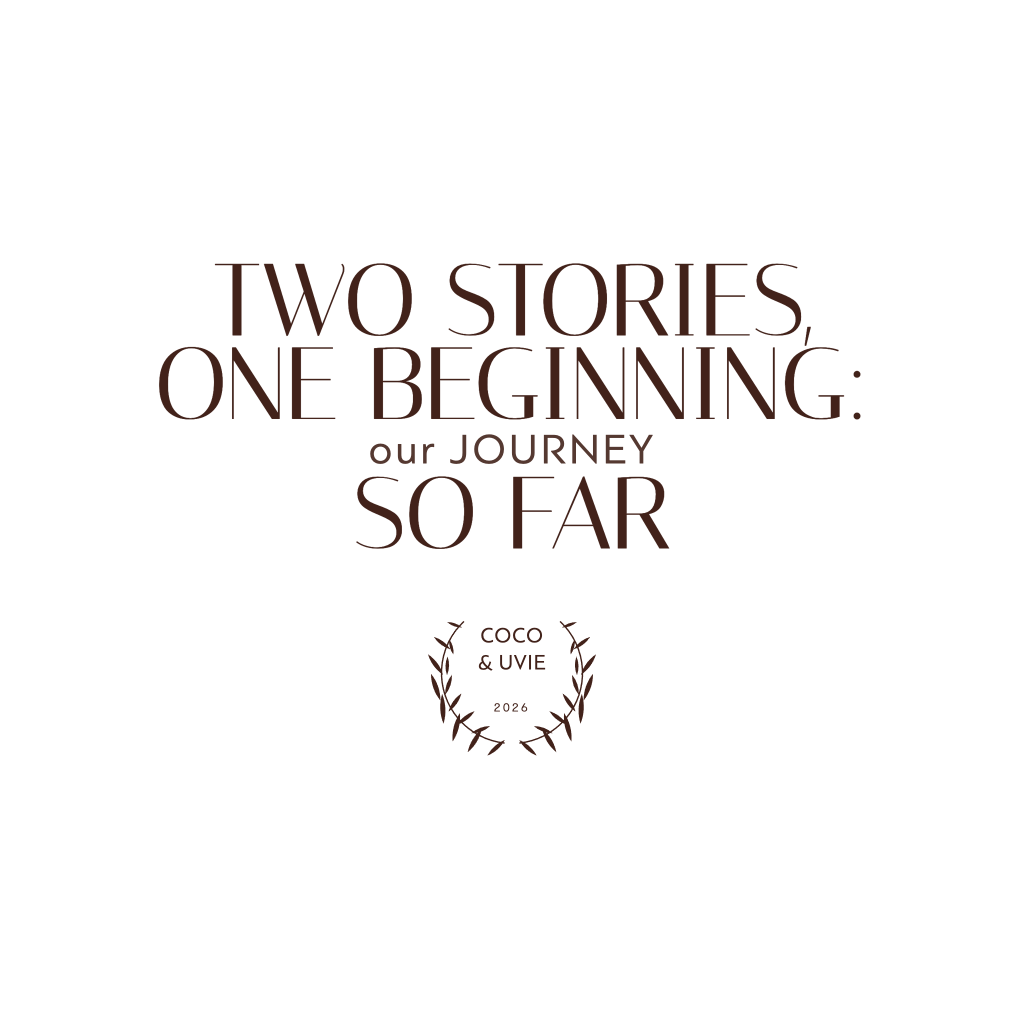
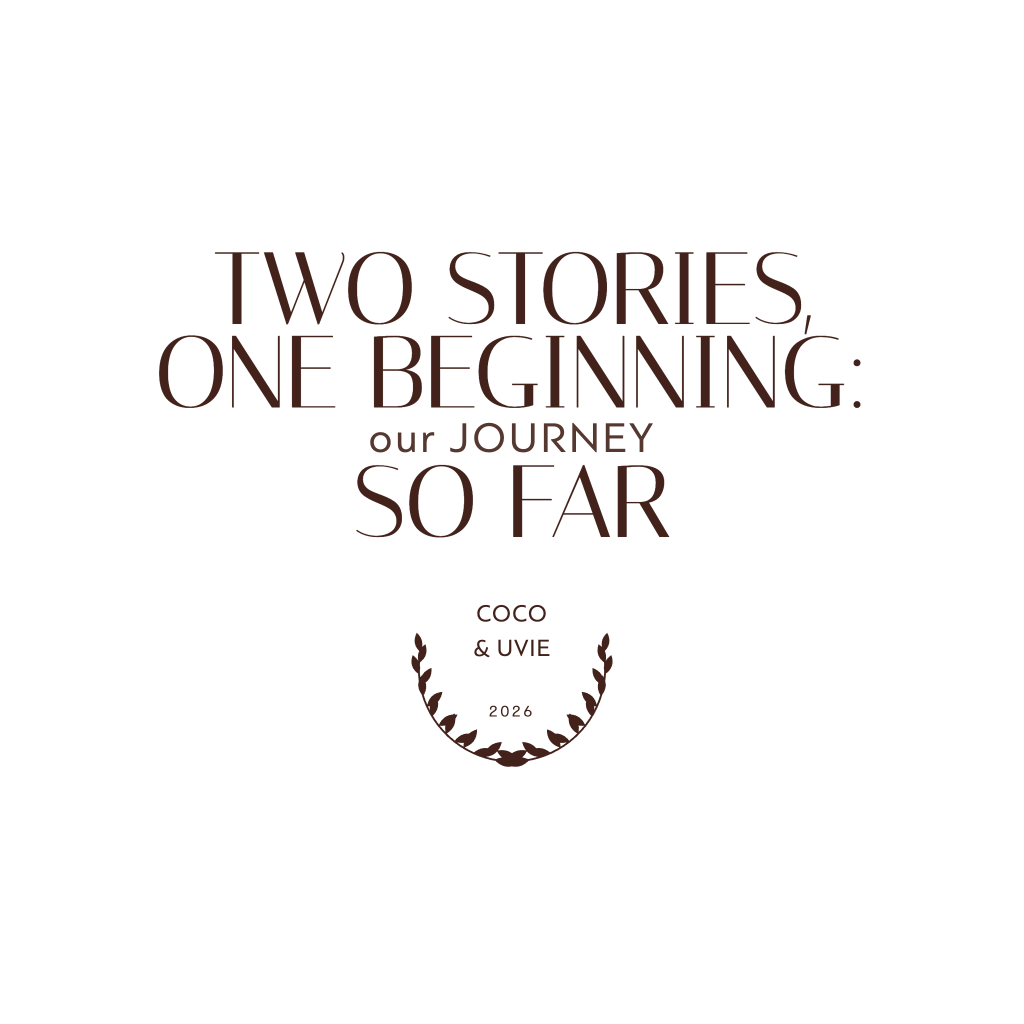
fix(laurel): redrawn from the reference's real proportions — a shallow bowl, not a cog
"The flower you added looks weird and bad compared to reference site's."

Fair. It was proportion, not craft, and the fault was mine: I drew it from the small
screenshot instead of measuring. Pulled their own tagline texture (/images/txt-1.png,
2048², studied in a scratchpad — nothing from it is in this repo) and measured the badge
at full size:

                        reference                  my first pass
  arc from the bottom   ~100° (a shallow bowl)     130° (nearly a closed circle)
  leaf length           ~0.25 x R                  0.43 x R
  leaves per branch     ~15, small and dense       8, big and sparse

Small and dense reads as a laurel. Big and few reads as a cog.

⚠ AND A BÉZIER BUG UNDERNEATH IT. A quadratic peaks at HALF its control offset, so
`Q L/2 -W/2 … Q L/2 W/2` draws a leaf W/2 wide, not W — every leaf was half the width I
was specifying, which is what made the first redraw read as spikes rather than leaves.
The controls sit at ±W now.

⚠ Every leaf sweeps along the branch TOWARD ITS TIP, which is why the ones at the bottom
lie flat instead of hanging down. An intermediate pass mirrored them about the stem and
they came out as little birds.

The names now sit above the branch tips and the year inside the bowl — the same
arrangement the reference uses, and the reason the wreath has to be shallow.

Regenerated with `node scripts/gen-textures.mjs --taglines` + gen-image-variants.mjs.
[…]

diff --git a/AUDIT.md b/AUDIT.md
@@ -1512,4 +1512,5 @@ second time** — the rule was already written in ARCHITECTURE.md.
 | 130 | A hovered card off to the side was still sorted behind the cards it had turned to face you past | 🟠 High | ✅ Fixed 2026-09-18 — user: *"hovering on an off-center card still puts it behind the center ones which is weird."* No pull that is sane in this frame can fix it by geometry — a side card starts 100 units out where the front pair sit at 78, so it would take the 20.9 zoom that had just been rejected twice. **The hovered card is lifted out of the deck instead**: `depthTest = false` and a `renderOrder` above every other card, so it is composited last. ⚠ THE REFERENCE DOES EXACTLY THIS, by another route — `hoverPoster(true)` calls `poster.layers.set(1)` and its loop renders layer 0, calls `clearDepth()`, then renders layer 1. A second pass over a cleared depth buffer and a depth test turned off are the same trick; ours is one pass. ⚠ The flag is paired with `renderOrder` and both are released the moment the card stops being the hovered one (and again in `clearHoverPose`), so nothing can be left drawing over the deck. |
 | 131 | The hover's zoom, third cut | 🟡 Medium | ✅ Fixed 2026-09-18 — user, on #128's 10: *"the zoom is still too exaggerated, I think I much preferred how we had it so closer to ours than reference site's zoom levels. Just a more fluid and a bit more prominent card hover."* `HOVER_PULL` 10 → **5**, `HOVER_RISE` 2 → 1. Measured at 1440×900 a front card sits 77.8 units out: 20.9 brought it to 51.9 (1.7× on screen), 10 to ~62 (1.3×), and 5 lands it at ~68 — about 1.15×, which alongside the lift and the turn reads as a card coming forward rather than one lunging. **The prominence is not the zoom**: what makes it read as picked up is #130, being composited in front of the whole deck. |
 | 132 | The tagline went blank while the deck was scrolling | 🟠 High | ✅ Fixed 2026-09-18 — user: *"as I scroll through the deck the text mesh should change. Right now it's empty while I scroll and only shows when the deck settles on one card."* **Two faults, stacked.** (1) `setTxtChapter` killed the running tween and started a NEW fade to zero from wherever the last one had reached, and the fade back IN only existed inside that tween's `onComplete` — which the next change killed before it could fire. The front card changes every 45° of ring rotation, so a scroll re-targets it several times a second and the opacity was dragged down again and again. One swap now runs at a time and always finishes; a change arriving mid-swap only moves the target, and the swap reads the latest one when it turns over. (2) ⚠ **`alphaTest: 0.5` ON THE TAGLINE MATERIAL MADE EVERY CROSSFADE A HARD CUT.** An alphaTest discards any fragment whose alpha — texel × material opacity — falls under it, so the whole plane vanished the instant its opacity crossed 0.5 and reappeared the instant it crossed back. Every fade this material has ever run was really a cut at the halfway mark. The plane writes no depth, so nothing needed it; removed. ⚠ `cancelTxtSwap()` hands the opacity back at the three points where the scene takes it over (select, the return scrub, the bottom exit) — killing the tween alone would leave `txtSwapping` true, and every later swap would be dropped for the rest of the session. |
-| 133 | The laurel | 🟢 Low | ✅ Added 2026-09-18 — user: *"can we add the flower thing to the bottom of our text mesh? Ofc change it to Coco & Uvie and the year to 2026."* An award laurel under the tagline reading **COCO & UVIE / 2026**, in the chapter's own ink, baked into the same `cu-txt*.png` texture — one plane means one fade, one depth sort, one scale, and the ink for free. ⚠ **DRAWN, NOT TRACED.** `laurelSvg()` computes both sprays: leaves biggest mid-branch and tapering at both ends (a laurel is a spray; one leaf size reads as a cog), with a smaller second row inside the stem. This repo carries none of the reference's art and this is no exception. ⚠ Set in Bague, not Italiana: the badge is chrome, in the chrome voice, under a display-voice tagline. ⚠ **IT MOVED THE TYPE.** The texture is one centred group, so ~500px of new content in a 2048px square pushed the type up ~60px on screen and into the nav — `TXT_Y_DESKTOP` −2 → **−7.5** puts the type back and drops the badge into the band the deeper dip (#129) opened between the last line and the card tops. ⚠ `node scripts/gen-textures.mjs --taglines` regenerates only `cu-txt*.png`; re-run `gen-image-variants.mjs` after it or the `-sm` textures a phone loads are the old art. |
+| 133 | The laurel | 🟢 Low | ✅ Added 2026-09-18, **redrawn the same day — see #134** — user: *"can we add the flower thing to the bottom of our text mesh? Ofc change it to Coco & Uvie and the year to 2026."* An award laurel under the tagline reading **COCO & UVIE / 2026**, in the chapter's own ink, baked into the same `cu-txt*.png` texture — one plane means one fade, one depth sort, one scale, and the ink for free. ⚠ **DRAWN, NOT TRACED.** `laurelSvg()` computes both sprays: leaves biggest mid-branch and tapering at both ends (a laurel is a spray; one leaf size reads as a cog), with a smaller second row inside the stem. This repo carries none of the reference's art and this is no exception. ⚠ Set in Bague, not Italiana: the badge is chrome, in the chrome voice, under a display-voice tagline. ⚠ **IT MOVED THE TYPE.** The texture is one centred group, so ~500px of new content in a 2048px square pushed the type up ~60px on screen and into the nav — `TXT_Y_DESKTOP` −2 → **−7.5** puts the type back and drops the badge into the band the deeper dip (#129) opened between the last line and the card tops. ⚠ `node scripts/gen-textures.mjs --taglines` regenerates only `cu-txt*.png`; re-run `gen-image-variants.mjs` after it or the `-sm` textures a phone loads are the old art. |
+| 134 | The laurel was a cog, not a wreath | 🟡 Medium | ✅ Fixed 2026-09-18 — user: *"the flower you added looks weird and bad compared to reference site's."* It was proportion, not craft, and I had drawn it from the small screenshot instead of measuring. Pulled their own tagline texture (`/images/txt-1.png`, 2048², studied in the scratchpad — **nothing from it is in this repo**) and measured the badge at full size: | | | ⚠ **the arc spans ~100° from the bottom, not 130°** — theirs is a wide shallow BOWL, mine was very nearly a closed circle; **each leaf is ~0.25 of the wreath's radius, not 0.43**; and there are **~15 a side, not 8**. Small and dense reads as laurel; big and few reads as a cog. ⚠ **AND A BÉZIER BUG UNDERNEATH IT:** a quadratic peaks at HALF its control offset, so `Q L/2 −W/2 … Q L/2 W/2` draws a leaf **W/2** wide, not W. Every leaf was half the width I thought I was specifying, which is what made the first redraw read as spikes. Controls sit at ±W now. ⚠ Every leaf sweeps along the branch toward its tip, which is why the ones at the bottom lie flat instead of hanging down — an earlier pass mirrored them about the stem and they came out as little birds. |

diff --git a/docs/PHASE-2-INNER-PAGES.md b/docs/PHASE-2-INNER-PAGES.md
@@ -179,6 +179,27 @@ back and drops the badge into the band the deeper dip opened between the last li
 tops. `node scripts/gen-textures.mjs --taglines` regenerates only the taglines; re-run
 `gen-image-variants.mjs` after it or a phone still loads the old `-sm` art.
 
+### ↩ And it was redrawn the same day (#134)
+
+*"The flower you added looks weird and bad compared to reference site's."* Fair — I had drawn it
+from the small screenshot instead of measuring. Pulled their own tagline texture (2048², studied in
+a scratchpad; **nothing from it is in this repo**) and measured the badge at full size:
+
+| | reference | my first pass |
+|---|---|---|
+| arc from the bottom | **~100°** (a wide shallow bowl) | 130° (very nearly a closed circle) |
+| leaf length | **~0.25 × R** | 0.43 × R |
+| leaves per branch | **~15**, small and dense | 8, big and sparse |
+
+Small and dense reads as a laurel; big and few reads as a cog.
+
+⚠ **And a Bézier bug underneath it.** A quadratic peaks at HALF its control offset, so
+`Q L/2 −W/2 … Q L/2 W/2` draws a leaf **W/2** wide, not W — every leaf was half the width I was
+specifying, which is what made the first redraw read as spikes. The controls sit at ±W now.
+
+⚠ Every leaf sweeps along the branch toward its tip, which is why the ones at the bottom lie flat
+instead of hanging down. A pass that mirrored them about the stem produced little birds.
+
 ---
 
 ## ▶▶ THE HOVER, TUNED DOWN — AND THE DECK GIVEN ITS AIR BACK — 2026-09-18 (AUDIT #128)
